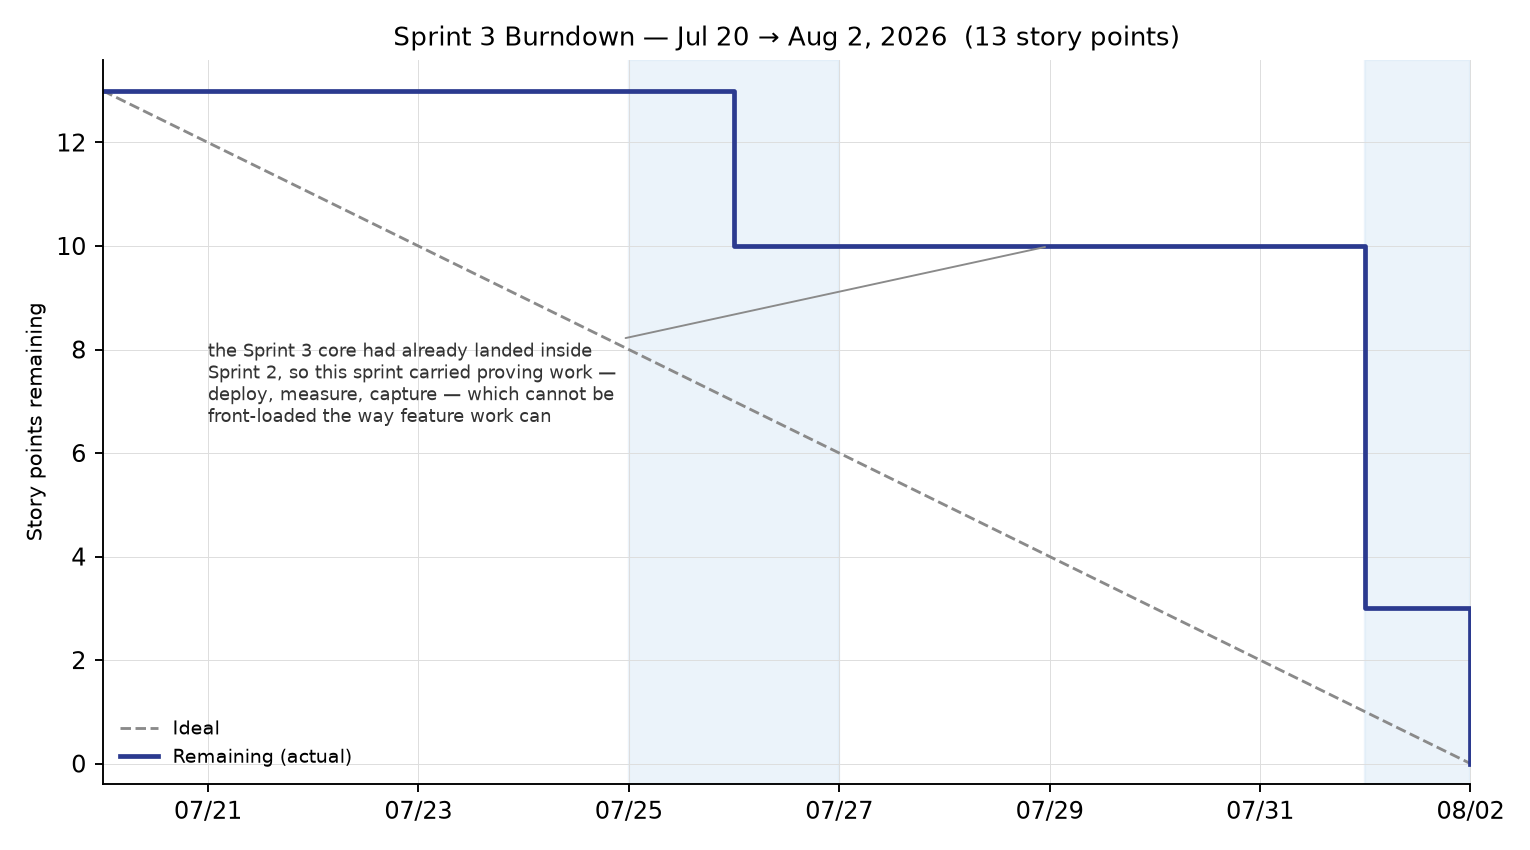
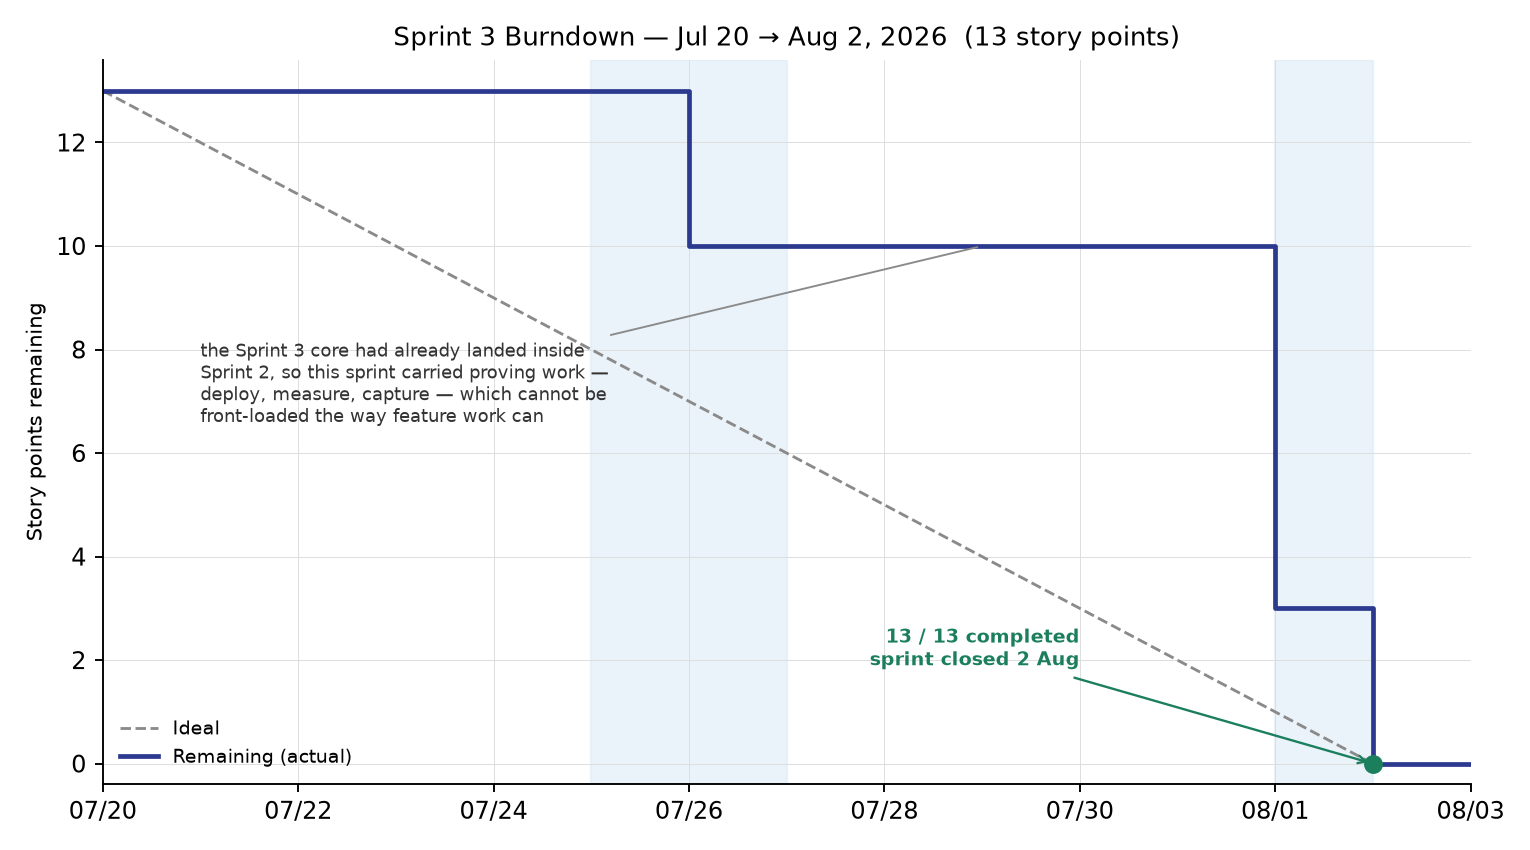
docs: the burndown closes instead of running off the edge
The line dropped to zero exactly on the right-hand boundary, so a sprint
that finished 13/13 read as one cut off mid-flight. It now holds the closing
figure past the last burn and says so: a marker on the close and the
outcome in words.

Also states, where a reader of the intelligence section will find it, that
the deterministic provider is a first-class lane rather than a stand-in —
the guardrails, budget, escalation triggers and uncertainty codes behave
identically to the live lane and only the prose changes, which is what makes
the chain testable in 35 seconds and demoable with no network. What a
visitor sees on the public link was composed deterministically; /health says
so, the badge says so, and every figure in it was computed in Python either
way.

diff --git a/scripts/make_burndown.py b/scripts/make_burndown.py
@@ -52,6 +52,11 @@ def _series() -> tuple[list[dt.date], list[int]]:
         xs.append(day)
         ys.append(remaining)
         day += dt.timedelta(days=1)
+    # Hold the closing figure for half a day past the last burn. Without it
+    # the line drops to zero exactly on the right-hand boundary, which reads
+    # as a sprint cut off mid-flight rather than one that closed.
+    xs.append(SPRINT_END + dt.timedelta(days=1))
+    ys.append(remaining)
     return xs, ys
 
 
@@ -90,13 +95,35 @@ def main() -> None:
         arrowprops={"arrowstyle": "-", "color": "#8a8a8a", "linewidth": 0.8},
     )
 
+    # The close, stated rather than left to be inferred from a line that
+    # happens to touch the axis.
+    ax.plot(
+        [SPRINT_END],
+        [0],
+        marker="o",
+        markersize=7,
+        color="#1b7f5e",
+        zorder=5,
+        clip_on=False,
+    )
+    ax.annotate(
+        f"{COMMITTED_POINTS} / {COMMITTED_POINTS} completed\nsprint closed 2 Aug",
+        xy=(SPRINT_END, 0),
+        xytext=(dt.date(2026, 7, 30), 1.9),
+        fontsize=8,
+        color="#1b7f5e",
+        fontweight="bold",
+        ha="right",
+        arrowprops={"arrowstyle": "->", "color": "#1b7f5e", "linewidth": 1.0},
+    )
+
     ax.set_title(
         f"Sprint 3 Burndown — Jul 20 → Aug 2, 2026  ({COMMITTED_POINTS} story points)",
         fontsize=11,
     )
     ax.set_ylabel("Story points remaining", fontsize=9)
     ax.set_ylim(-0.4, COMMITTED_POINTS + 0.6)
-    ax.set_xlim(SPRINT_START, SPRINT_END)
+    ax.set_xlim(SPRINT_START, SPRINT_END + dt.timedelta(days=1))
     ax.xaxis.set_major_formatter(mdates.DateFormatter("%m/%d"))
     ax.xaxis.set_major_locator(mdates.DayLocator(interval=2))
     ax.grid(True, linewidth=0.4, color="#dddddd")

diff --git a/README.md b/README.md
@@ -221,6 +221,19 @@ figures the post-check could not verify. A confidence score can be talked
 up; these cannot. The list is byte-identical whether Gemini, the demo
 composer or the rule-based fallback wrote the prose.
 
+**The deterministic provider is a first-class lane, and the demo runs on it
+on purpose.** ([ADR 0005](docs/adr/0005-the-fake-provider-is-a-first-class-lane.md).)
+It is not a stub standing in for missing work: it is a per-schema composer
+that narrates the *real* payload, so the guardrails, the call budget, the
+escalation triggers and the uncertainty codes behave identically to the live
+lane and only the prose changes. That is what makes the whole chain testable
+in 35 seconds and demoable with no network. The live lane is real and was
+measured — the August 1 spike ran the schema end to end at 0.8–2.9 s per
+call — but a demo that can be taken down by someone else's rate limit is not
+a demo. So the honest statement is this: **what a visitor sees on the public
+link was composed deterministically**, `/health` says so, the data badge says
+so, and every figure in it was computed in Python either way.
+
 **And it is measured.** A 288-case adversarial golden set across nine
 families sweeps the *real* analyze → recommend chain
 ([`app/evalset.py`](app/evalset.py), [scorecard](docs/EVAL_SCORECARD.md)):
